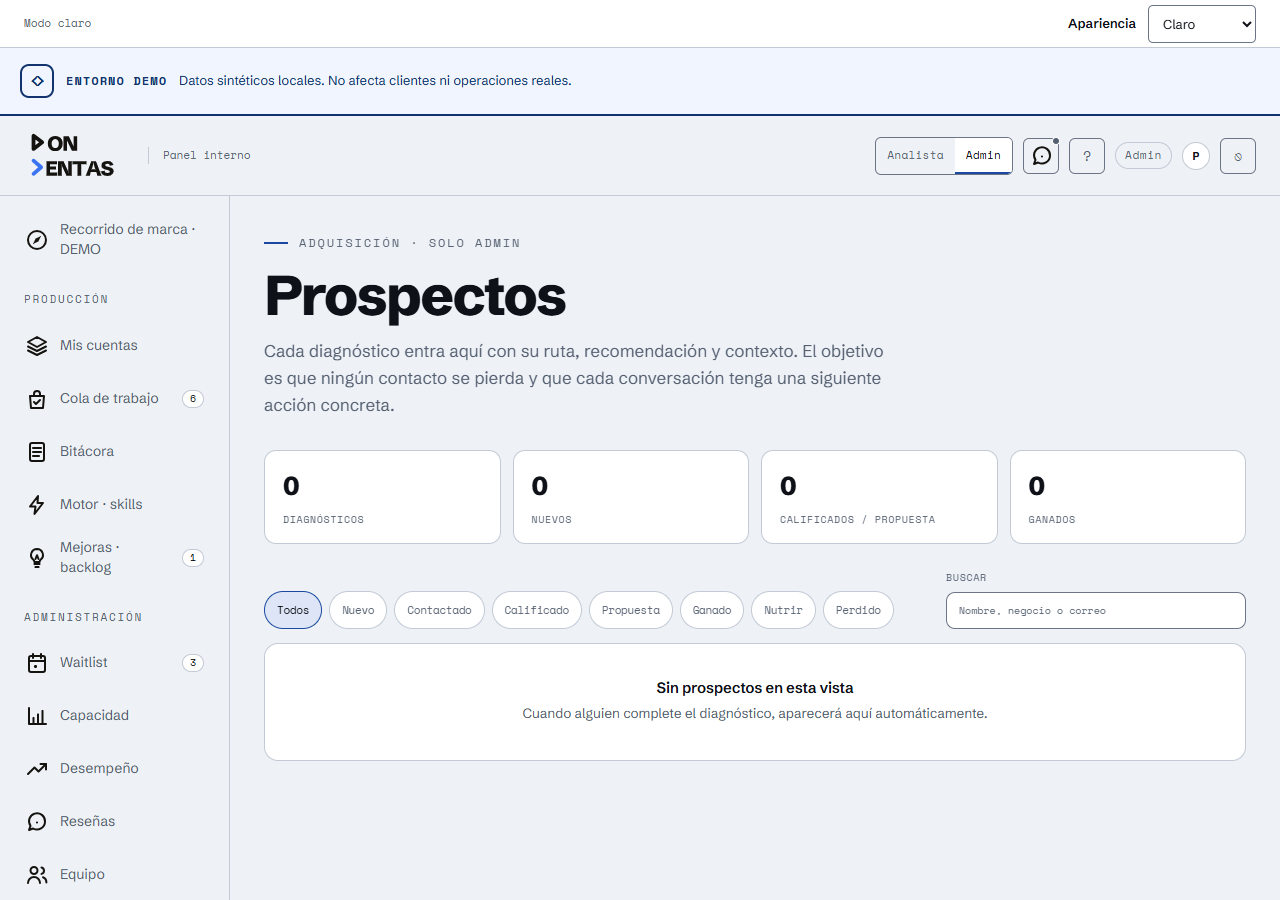
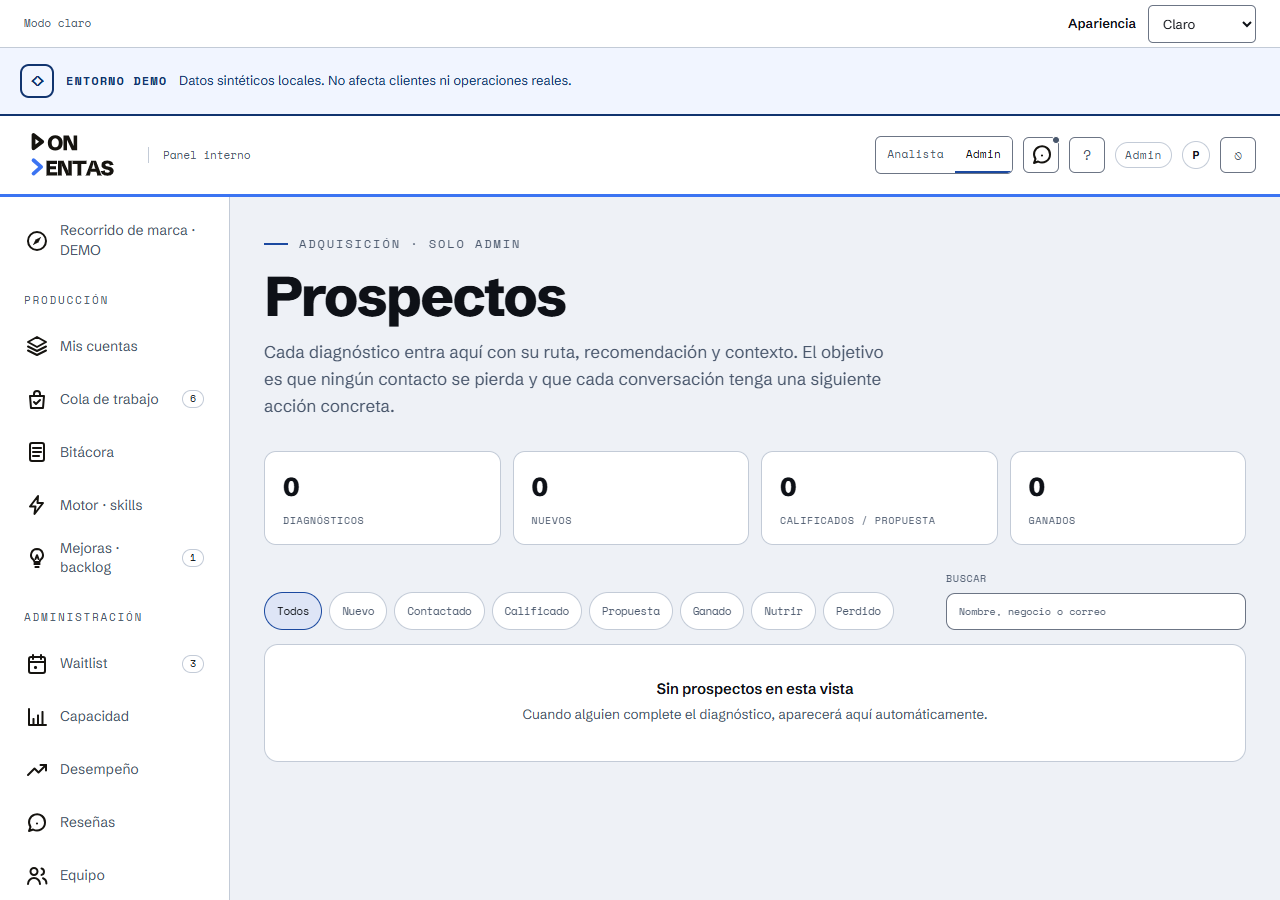
Restore brand editorial hierarchy and stronger Portal contrast

diff --git a/app/hybrid-demo-ui.js b/app/hybrid-demo-ui.js
@@ -58,7 +58,7 @@
   }
   if(tab==='marca')body=body.replace('<section class="hy-summary">',deeperContext(ctx)+'<section class="hy-summary">');
   if(tab==='contexto'&&ctx)body=body.replace('<h3>Historial</h3>',insightReview(ctx)+'<h3>Historial</h3>');
-  host.innerHTML='<section class="hy-demo"><header><p class="hy-eyebrow">TU MARCA, EN MOVIMIENTO</p><h1>Un buen trabajo empieza por entenderte.</h1><p class="hy-lead">Dale contexto a tu marca. Construye una oferta clara y trabaja con Don Ventas cuando lo necesites.</p><details class="hy-simulation"><summary>Controles de la DEMO · '+esc(actor)+'</summary><div class="hy-controls"><label>Actor simulado<select data-selector="actor">'+['cliente','especialista','admin'].map(a=>'<option'+(actor===a?' selected':'')+'>'+a+'</option>').join('')+'</select></label><label>Espacio<select data-selector="workspace">'+Object.values(s.workspaces).map(x=>'<option value="'+x.id+'"'+(workspace===x.id?' selected':'')+(!C.allowed(actor,x.id)?' disabled':'')+'>'+esc(x.label)+'</option>').join('')+'</select></label></div><p>Dos espacios ficticios. Sin operaciones reales.</p></details></header><nav aria-label="Etapas del recorrido">'+tabs.map(([id,label])=>'<button class="btn'+(tab===id?' solid':'')+'" data-tab="'+id+'" aria-current="'+(tab===id?'step':'false')+'">'+label+'</button>').join('')+'</nav><p id="hy-message" role="status" tabindex="-1">'+esc(message)+'</p><div class="hy-body">'+body+'</div><footer><label class="hy-check"><input type="checkbox" id="hy-fail"> Simular fallo del próximo guardado</label><p>Los borradores se conservan ante errores y cambios de etapa durante esta sesión. Cerrar sesión borra los datos locales. Recargar descarta los borradores sin confirmar.</p></footer></section>';
+  host.innerHTML='<section class="hy-demo"><header><div class="hy-edition"><span>Cuaderno de marca / Don Ventas</span><span>Escuchar → Ordenar → Trabajar</span></div><div class="hy-opening"><div><p class="hy-eyebrow">TU MARCA, EN MOVIMIENTO</p><h1>Un buen trabajo empieza por <em>entenderte.</em></h1><p class="hy-lead">Dale contexto a tu marca. Construye una oferta clara y trabaja con Don Ventas cuando lo necesites.</p></div><aside class="hy-editorial-note dv-ink-field" aria-label="Una pregunta para empezar"><span class="hy-eyebrow">ANTES DE LA PIEZA</span><p>¿Qué debería entender alguien <em>que no te conoce?</em></p><small>Tu experiencia es el punto de partida.</small></aside></div><details class="hy-simulation"><summary>Controles de la DEMO · '+esc(actor)+'</summary><div class="hy-controls"><label>Actor simulado<select data-selector="actor">'+['cliente','especialista','admin'].map(a=>'<option'+(actor===a?' selected':'')+'>'+a+'</option>').join('')+'</select></label><label>Espacio<select data-selector="workspace">'+Object.values(s.workspaces).map(x=>'<option value="'+x.id+'"'+(workspace===x.id?' selected':'')+(!C.allowed(actor,x.id)?' disabled':'')+'>'+esc(x.label)+'</option>').join('')+'</select></label></div><p>Dos espacios ficticios. Sin operaciones reales.</p></details></header><nav aria-label="Etapas del recorrido">'+tabs.map(([id,label])=>'<button class="btn'+(tab===id?' solid':'')+'" data-tab="'+id+'" aria-current="'+(tab===id?'step':'false')+'">'+label+'</button>').join('')+'</nav><p id="hy-message" role="status" tabindex="-1">'+esc(message)+'</p><div class="hy-body">'+body+'</div><footer><label class="hy-check"><input type="checkbox" id="hy-fail"> Simular fallo del próximo guardado</label><p>Los borradores se conservan ante errores y cambios de etapa durante esta sesión. Cerrar sesión borra los datos locales. Recargar descarta los borradores sin confirmar.</p></footer></section>';
   for(const [k,v] of Object.entries(draft())){const el=host.querySelector('[name="'+k+'"]');if(el){if(el.type==='checkbox')el.checked=!!v;else el.value=v;}}
   host.oninput=e=>{if(e.target.name)draft()[e.target.name]=e.target.type==='checkbox'?e.target.checked:e.target.value;if(e.target.dataset.context){host.querySelector('#'+e.target.dataset.context).hidden=!e.target.checked;e.target.closest('.hy-option').dataset.selected=String(e.target.checked);}};
   host.onchange=e=>{const kind=e.target.dataset.selector;if(kind){actor=kind==='actor'?e.target.value:actor;workspace=kind==='workspace'?e.target.value:workspace;if(!C.allowed(actor,workspace))workspace='a';intention=null;message='';render(host);}};

diff --git a/app/appearance.css b/app/appearance.css
@@ -97,6 +97,53 @@ input[type=checkbox],input[type=radio]{accent-color:var(--dv-action)}
  .cap,.labin{flex-wrap:wrap}
 }
 @media(max-width:420px){.kpis{grid-template-columns:minmax(0,1fr)!important}}
+/* Editorial projection of Runtime PR #75: paper, ink and one blue emphasis.
+   Local composition only; the imported semantic source remains byte-exact. */
+:root,:root[data-dv-appearance="light"]{--dv-muted:#48566b;--dv-subtle:#48566b;--dv-line:#c3cbd7}
+:root[data-dv-appearance="dark"]{--dv-muted:#b8c4d8;--dv-subtle:#b8c4d8;--dv-line:#364152}
+@media(prefers-color-scheme:dark){:root:not([data-dv-appearance]){--dv-muted:#b8c4d8;--dv-subtle:#b8c4d8;--dv-line:#364152}}
+.top,aside#side{background:var(--dv-surface)}
+.top{border-bottom:3px solid #3b74f2}
+.nav.on{box-shadow:inset 3px 0 var(--dv-selected-border);font-weight:700}
+.vt{border-bottom:2px solid var(--dv-link);padding-bottom:18px}
+.hy-edition{display:flex;flex-wrap:wrap;justify-content:space-between;gap:8px 20px;border-bottom:1px solid var(--dv-control-border);padding:0 0 14px;color:var(--dv-muted);font:10px/1.6 var(--mono);letter-spacing:.06em;text-transform:uppercase}
+.hy-opening{display:grid;grid-template-columns:minmax(0,1.6fr) minmax(220px,.85fr);gap:28px;align-items:center;padding-block:28px 16px}
+.hy-opening>*{min-width:0}
+.hy-demo .hy-eyebrow{color:var(--dv-link)}
+.hy-eyebrow::before{content:"";display:inline-block;width:24px;height:2px;background:currentColor;vertical-align:middle;margin-right:12px}
+.hy-demo h1{font-size:clamp(38px,4.4vw,62px);max-width:16ch;letter-spacing:-.045em;text-wrap:initial}
+.hy-demo h1 em{font-style:normal;color:var(--dv-emphasis)}
+.hy-demo .hy-editorial-note{background:var(--dv-canvas);color:var(--dv-text);padding:26px;border-top:3px solid #3b74f2}
+.hy-editorial-note .hy-eyebrow{font-size:10px;letter-spacing:.06em}
+.hy-editorial-note p{font:800 clamp(26px,2.6vw,34px)/1.12 var(--display);letter-spacing:-.035em;margin:22px 0}
+.hy-editorial-note em{font-style:normal;color:var(--dv-emphasis)}
+.hy-editorial-note small{display:block;color:var(--dv-text);border-top:1px solid var(--dv-control-border);padding-top:16px;font:12px/1.6 var(--mono)}
+.hy-demo nav{padding:12px 0;gap:4px;border-bottom:1px solid var(--dv-control-border)}
+.hy-demo nav .btn{color:var(--dv-text);font-size:13px}
+.hy-demo nav .btn.solid,.hy-demo nav .btn.solid:hover{background:var(--dv-action);color:var(--dv-on-action);border-color:var(--dv-action)}
+.hy-body{padding:clamp(20px,3vw,36px);background:var(--dv-surface);border:1px solid var(--dv-line);border-top:4px solid var(--dv-emphasis)}
+.hy-demo .hy-section-intro h2{max-width:23ch}
+.hy-question{border-top-color:var(--dv-control-border)}
+.hy-question legend{font-weight:700}
+.hy-number{color:var(--dv-link);font-weight:700}
+.hy-option{border-radius:2px;background:var(--dv-control)}
+.hy-option[data-selected=true]{box-shadow:inset 3px 0 var(--dv-selected-border)}
+.hy-demo :is(input:not([type=checkbox]),textarea,select){background:var(--dv-control);color:var(--dv-text)}
+.hy-demo .hy-choice{font-weight:500}
+.hy-demo .hy-note{border-left:3px solid var(--dv-link);border-bottom:0;padding:10px 16px;background:var(--dv-canvas);color:var(--dv-text)}
+.hy-deeper,.hy-summary{border-top:2px solid var(--dv-link)}
+.hy-demo article{border-radius:2px}
+@media(max-width:640px){
+ .hy-opening{grid-template-columns:minmax(0,1fr);gap:18px;padding-block:20px 8px}
+ .hy-demo h1{font-size:38px;max-width:17ch}
+ .hy-demo .hy-editorial-note{padding:20px}
+ .hy-editorial-note p{font-size:26px;margin:14px 0;max-width:25ch}
+ .hy-editorial-note small{padding-top:12px}
+ .hy-edition{font-size:9px}
+ .hy-body{padding:20px 16px}
+ .hy-demo nav .btn{font-size:12px}
+ .hy-question legend{font-size:21px}
+}
 @media(forced-colors:active){
  :is(button,input,select,textarea,.hy-option,.nav.on){border:1px solid ButtonText}
  :is(button,a,input,select,textarea,summary):focus-visible{outline-color:Highlight}

diff --git a/tests/browser/appearance.spec.js b/tests/browser/appearance.spec.js
@@ -29,7 +29,7 @@ test('selected options expose readable context on desktop and mobile in both the
   await theme(page,mode);
   for(const width of [390,1280]){
    await page.setViewportSize({width,height:900});
-   await page.locator('[name="q_needs_launch"]').scrollIntoViewIfNeeded();
+   await page.locator('[name="qnote_needs_launch"]').scrollIntoViewIfNeeded();
    await expect(page.locator('[name="qnote_needs_launch"]')).toBeVisible();
    await fits(page,'selected '+mode+'/'+width);await capture(page,'form-'+mode+'-'+width);
   }
@@ -120,11 +120,17 @@ test('representative text and control contrast meets thresholds in light and dar
    const rgb=s=>s.match(/[\d.]+/g).slice(0,3).map(Number);
    const lum=s=>rgb(s).map(c=>{c/=255;return c<=.04045?c/12.92:((c+.055)/1.055)**2.4}).reduce((a,c,i)=>a+c*[.2126,.7152,.0722][i],0);
    const ratio=(a,b)=>{a=lum(a);b=lum(b);return (Math.max(a,b)+.05)/(Math.min(a,b)+.05)};
-   return ['#appearanceBar select','.hy-demo input[name="name"]','.hy-body .btn.solid'].map(selector=>{
-    const el=document.querySelector(selector);if(!el)return {selector,missing:true};const s=getComputedStyle(el);return {selector,color:s.color,background:s.backgroundColor,text:ratio(s.color,s.backgroundColor),border:ratio(s.borderTopColor,s.backgroundColor)};
+   return ['#appearanceBar select','.hy-demo input[name="name"]','.hy-body .btn.solid','.hy-opening h1','.hy-opening h1 em','.hy-lead','.hy-editorial-note p','.hy-editorial-note em','.hy-editorial-note small','.hy-editorial-note .hy-eyebrow','.hy-edition','.hy-number','.hy-question>p','.hy-choice span','.hy-demo nav .btn.solid','.hy-demo nav .btn:not(.solid)'].map(selector=>{
+    const el=document.querySelector(selector);if(!el)return {selector,missing:true};const s=getComputedStyle(el);
+    let parent=el,background=s.backgroundColor;while(parent && (background==='rgba(0, 0, 0, 0)'||background==='transparent')){parent=parent.parentElement;if(parent)background=getComputedStyle(parent).backgroundColor;}
+    return {selector,color:s.color,background,text:ratio(s.color,background),border:ratio(s.borderTopColor,background)};
    });
   });
-  for(const c of checks){expect(c.missing,JSON.stringify(c)).toBeFalsy();expect(c.text,JSON.stringify(c)).toBeGreaterThanOrEqual(4.5);if(!c.selector.includes('btn'))expect(c.border,JSON.stringify(c)).toBeGreaterThanOrEqual(3);}
+  for(const c of checks){expect(c.missing,JSON.stringify(c)).toBeFalsy();expect(c.text,JSON.stringify(c)).toBeGreaterThanOrEqual(4.5);if(c.selector==='#appearanceBar select'||c.selector.includes('input['))expect(c.border,JSON.stringify(c)).toBeGreaterThanOrEqual(3);}
+  const note=page.locator('.hy-editorial-note');
+  const textFits=await note.evaluate(el=>{const small=el.querySelector('small'),r=document.createRange();r.selectNodeContents(small);const text=r.getBoundingClientRect(),box=el.getBoundingClientRect();return text.bottom<=box.bottom&&text.right<=box.right;});
+  expect(textFits,'Editorial note text must fit its own surface').toBeTruthy();
+  if(process.env.H11_EDITORIAL_DETAIL)await note.screenshot({path:path.join(process.env.H11_EDITORIAL_DETAIL,'note-'+mode+'.png')});
  }
 });
 test('without JavaScript appearance follows the device and selector remains disabled',async({browser})=>{

diff --git a/evidence/h11-appearance/REPORT.md b/evidence/h11-appearance/REPORT.md
@@ -4,6 +4,39 @@ Fecha: 2026-10-25. Implementación local preparada para aceptación visual de Ar
 **No constituye cierre de aceptación humana, release alojado ni operación H1.2.**
 Los flujos operativos conservan su estado pendiente en el [backlog](../operational-backlog.md).
 
+## Revisión editorial 02 — contraste y personalidad
+
+Arturo señala que la primera integración `956dcc5` resulta demasiado uniforme y
+solicita mayor contraste y recuperar la personalidad tomando como referencia el
+merge del sistema de marca. No se acepta esa versión como cierre visual de H1.1.
+La revisión actual adapta el piloto operativo/editorial y la composición aprobada
+de Runtime PR #75, commit `f8a764b`, no solo sus tokens. Fuente leída y hashes en
+`source-receipt.json#editorialAdaptation`; Runtime conserva su checkout intacto.
+
+Adaptación `PORTAL-H11-EDITORIAL-02`: folio mono, título dominante con énfasis azul,
+una nota tinta con pregunta útil antes de la pieza, formulario en superficie propia,
+navegación activa de relleno sólido y selección con borde interior. En móvil la
+nota fluye debajo del título sin recortes ni ocultar el contenido. Papel/blanco
+separan estructura y trabajo; oscuro conserva la misma jerarquía. Textos secundarios
+y líneas usan los valores del contexto editorial de Runtime. No se cambian tokens
+importados ni geometría de activos; no se crean fotografías ni ilustraciones.
+
+Consumidores: cabecera/navegación y roles de texto globales del Portal; apertura y
+cinco etapas de la DEMO; acceso y administración incluidos en regresión. Las áreas
+de escritura conservan contenido y comportamiento. El nuevo aside no contiene
+marcas/iconos dependientes del adaptador de tema. Formularios sobre superficies de
+trabajo y un solo campo tinta expresivo, sin repetir el recurso en cada pregunta.
+
+Validación actual: `verify:all`, 256 Node y 17 navegador aprobados; 272 combinaciones
+de ruta/tema/ancho. Se amplía contraste a 16 parejas por tema (32 comprobaciones de
+texto, todas ≥4.5:1), incluidos nota tinta, título/énfasis, texto secundario, folio,
+opciones y navegación. Bordes de los dos controles representativos ≥3:1. No es
+certificación integral WCAG. Diez capturas regeneradas y revisadas individualmente
+y como familia. Revisión independiente de solo lectura cerrada sin bloqueantes.
+El aparente recorte de una línea de la nota en la captura general se descartó con
+captura cercana y comprobación de caja de texto. Se regeneró la evidencia móvil
+con el textarea contextual completo en pantalla. Aceptación humana pendiente.
+
 ## Mandato, fuente y límites
 
 Arturo declara disponible la variante clara y autoriza integrarla con selector
@@ -74,8 +107,9 @@ Suite `tests/browser/appearance.spec.js` sobre servidor loopback y datos sintét
 5. Reflujo de viewport 640×450, equivalente CSS de 1280×900 al 200 %; **no** se
    operó ni certificó zoom nativo del navegador. No se declara prueba de ampliación
    de toda la tipografía por cambiar un font-size heredado.
-6. Contraste computado de tres parejas representativas por tema: selector,
-   campo de nombre y botón primario; texto ≥4.5:1, borde esencial de campos ≥3:1.
+6. Contraste computado de 16 parejas representativas por tema: selector,
+   campo de nombre, botón primario y los nuevos contextos editoriales; texto ≥4.5:1,
+   borde esencial de los dos controles representativos ≥3:1.
    No es un barrido de todos los textos ni certificación integral WCAG.
 7. BLOCKED/prelanzamiento, almacenamiento denegado y fallback sin JavaScript.
 
